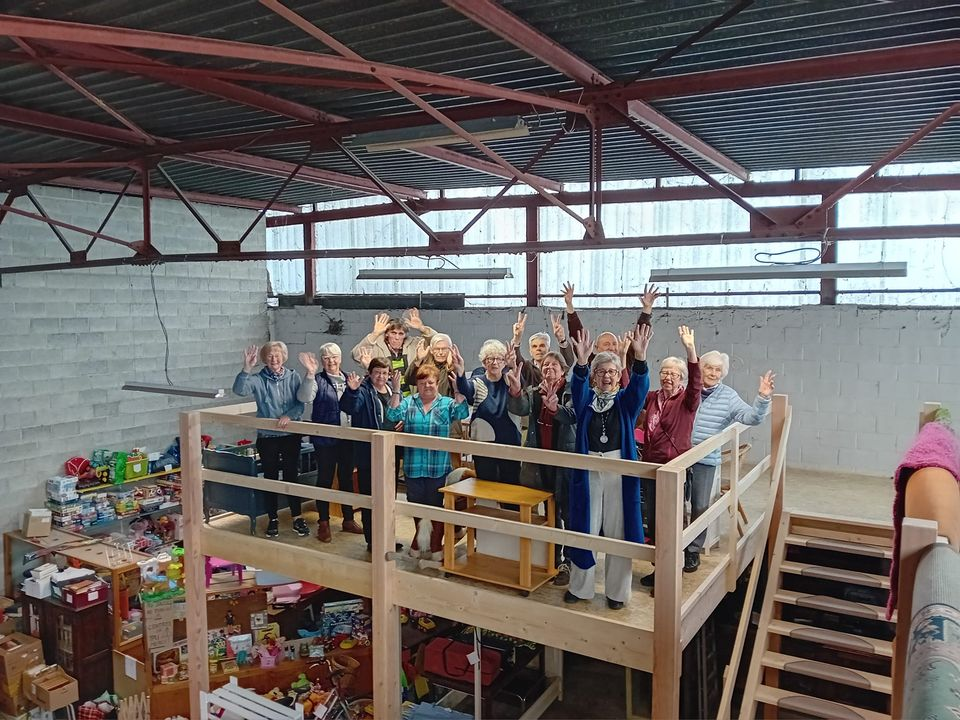
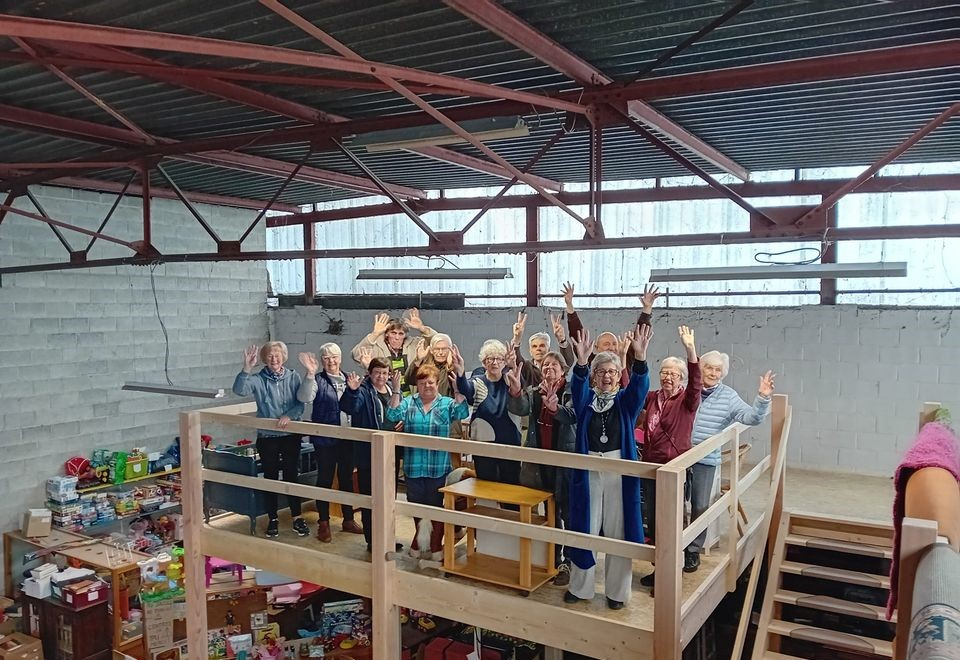
Changed the projects' cards

diff --git a/wp-content/themes/portfolio/public/css/style.css b/wp-content/themes/portfolio/public/css/style.css
@@ -605,29 +605,38 @@ abbr {
   transition: 1s;
 }
 
-.projects .projects__container article {
-  padding: 1.2rem 0;
-  cursor: pointer;
-  position: relative;
-  background-color: #2B2A2A;
-  border: 1px solid black;
-  border-radius: 8px;
-  transition: 1s;
-  margin-bottom: 4rem;
-  display: flex;
-  flex-direction: column-reverse;
-  justify-content: space-between;
-  align-items: center;
-}
-@media (min-width: 920px) {
-  .projects .projects__container article {
-    flex-direction: row;
-    padding: 1.2rem 2%;
+@media (min-width: 800px) {
+  .projects .projects__container {
+    display: grid;
+    grid-template-columns: 1fr 1fr;
+    gap: 3rem;
   }
 }
 @media (min-width: 920px) {
-  .projects .projects__container article:nth-child(even) {
-    flex-direction: row-reverse;
+  .projects .projects__container {
+    display: grid;
+    grid-template-columns: 1fr 1fr 1fr;
+    gap: 3rem;
+  }
+}
+.projects .projects__container article {
+  cursor: pointer;
+  position: relative;
+  border-radius: 8px;
+  transition: 1s;
+  margin: 0 auto 4rem;
+  width: 75%;
+}
+@media (min-width: 800px) {
+  .projects .projects__container article {
+    width: 90%;
+    margin-bottom: 0;
+  }
+}
+@media (min-width: 920px) {
+  .projects .projects__container article {
+    width: 100%;
+    margin-bottom: 0;
   }
 }
 .projects .projects__container article a {
@@ -641,12 +650,12 @@ abbr {
   z-index: 1;
 }
 .projects .projects__container article .img_container {
-  width: 88%;
+  width: 100%;
   margin-top: 2rem;
 }
 @media (min-width: 920px) {
   .projects .projects__container article .img_container {
-    width: 48%;
+    width: 100%;
     margin-top: 0;
   }
 }
@@ -655,43 +664,18 @@ abbr {
   height: 100%;
   border-radius: 10px;
 }
-.projects .projects__container article section {
-  width: 88%;
-}
-@media (min-width: 920px) {
-  .projects .projects__container article section {
-    width: 48%;
-  }
-}
-.projects .projects__container article section h4 {
-  color: #C0A062;
-  font-size: 1.5rem;
-  margin-bottom: 1rem;
-}
-.projects .projects__container article section p {
-  line-height: 1.5rem;
+.projects .projects__container article h4 {
+  background-color: #C0A062;
+  width: 65%;
+  text-align: center;
+  padding: 0.5rem 0;
+  position: absolute;
+  bottom: -0.5rem;
+  left: 10%;
+  rotate: -2deg;
   font-size: 1.2rem;
-  margin-bottom: 2rem;
-}
-.projects .projects__container article section ul {
-  display: flex;
-}
-.projects .projects__container article section ul li {
-  margin-left: 2%;
-  color: #C0A062;
-  border: 1px solid #C0A062;
-  border-radius: 8px;
-  padding: 0.5rem 3%;
-  font-size: 0.8rem;
-  font-family: Georgia, "Times New Roman", Times, serif;
-}
-@media (min-width: 920px) {
-  .projects .projects__container article section ul li {
-    padding: 0.5rem 2%;
-  }
-}
-.projects .projects__container article section ul li:first-child {
-  margin-left: 0;
+  line-height: 1.2rem;
+  border-radius: 5px;
 }
 .projects .projects__container article:hover {
   transform: scale(1.07);

diff --git a/wp-content/themes/portfolio/public/sass/projects.scss b/wp-content/themes/portfolio/public/sass/projects.scss
@@ -2,29 +2,32 @@
 
 .projects {
   .projects__container {
+    @media (min-width: $breakpoint-m) {
+      display: grid;
+      grid-template-columns: 1fr 1fr;
+      gap: 3rem;
+    }
+    @media (min-width: $breakpoint-l) {
+      display: grid;
+      grid-template-columns: 1fr 1fr 1fr;
+      gap: 3rem;
+    }
+
     article {
-      padding: 1.2rem 0;
       cursor: pointer;
       position: relative;
-      background-color: #2B2A2A;
-      border: 1px solid black;
       border-radius: 8px;
       transition: 1s;
-      margin-bottom: 4rem;
-      display: flex;
-      flex-direction: column-reverse;
-      justify-content: space-between;
-      align-items: center;
+      margin: 0 auto 4rem;
+      width: 75%;
 
-      @media (min-width: $breakpoint-l) {
-        flex-direction: row;
-        padding: 1.2rem 2%;
+      @media (min-width: $breakpoint-m) {
+        width: 90%;
+        margin-bottom: 0;
       }
-
-      &:nth-child(even) {
-        @media (min-width: $breakpoint-l) {
-          flex-direction: row-reverse;
-        }
+      @media (min-width: $breakpoint-l) {
+        width: 100%;
+        margin-bottom: 0;
       }
 
       a {
@@ -39,10 +42,10 @@
       }
 
       .img_container {
-        width: 88%;
+        width: 100%;
         margin-top: 2rem;
         @media (min-width: $breakpoint-l) {
-          width: 48%;
+          width: 100%;
           margin-top: 0;
         }
 
@@ -53,44 +56,18 @@
         }
       }
 
-      section {
-        width: 88%;
-        @media (min-width: $breakpoint-l) {
-          width: 48%;
-        }
-
-        h4 {
-          color: #C0A062;
-          font-size: 1.5rem;
-          margin-bottom: 1rem;
-        }
-
-        p {
-          line-height: 1.5rem;
-          font-size: 1.2rem;
-          margin-bottom: 2rem;
-        }
-
-        ul {
-          display: flex;
-
-          li {
-            margin-left: 2%;
-            color: #C0A062;
-            border: 1px solid #C0A062;
-            border-radius: 8px;
-            padding: 0.5rem 3%;
-            font-size: 0.8rem;
-            font-family: Georgia, "Times New Roman", Times, serif;
-            @media (min-width: $breakpoint-l) {
-              padding: 0.5rem 2%;
-            }
-
-            &:first-child {
-              margin-left: 0;
-            }
-          }
-        }
+      h4 {
+        background-color: #C0A062;
+        width: 65%;
+        text-align: center;
+        padding: 0.5rem 0;
+        position: absolute;
+        bottom: -0.5rem;
+        left: 10%;
+        rotate: -2deg;
+        font-size: 1.2rem;
+        line-height: 1.2rem;
+        border-radius: 5px;
       }
 
       &:hover {

diff --git a/wp-content/themes/portfolio/template-projects.php b/wp-content/themes/portfolio/template-projects.php
@@ -23,29 +23,30 @@ get_header();
 
             if ($projects->have_posts()): while ($projects->have_posts()): $projects->the_post(); ?>
                 <article class="animate">
-                    <a href="<?= get_the_permalink(); ?>" title="Consulter le projet">
+                    <a href="<?= get_the_permalink(); ?>" title='Consulter le projet "<?= get_the_title(); ?>"'>
                         <span class="sr-only">Découvrir le projet "<?= get_the_title(); ?>"</span>
                     </a>
                     <div class="img_container">
                         <?= wp_get_attachment_image(get_field('cover_img'), 'medium'); ?>
                     </div>
-                    <section>
+                    <h4><?= get_the_title(); ?></h4>
+                    <!--<section>
                         <h4>
-                            <?= get_field('title') ?>
+                            <?php /*= get_field('title') */?>
                         </h4>
                         <p>
-                            <?= get_field('introduction_description') ?>
+                            <?php /*= get_field('introduction_description') */?>
                         </p>
-                        <?php if (have_rows('languages')): ?>
+                        <?php /*if (have_rows('languages')): */?>
                             <ul>
-                                <?php while (have_rows('languages')): the_row(); ?>
+                                <?php /*while (have_rows('languages')): the_row(); */?>
                                     <li>
-                                        <?= get_sub_field('language') ?>
+                                        <?php /*= get_sub_field('language') */?>
                                     </li>
-                                <?php endwhile; ?>
+                                <?php /*endwhile; */?>
                             </ul>
-                        <?php endif; ?>
-                    </section>
+                        <?php /*endif; */?>
+                    </section>-->
                 </article>
             <?php endwhile; else: ?>
                 <p>Je n'ai pas de projets à montrer pour le moment...</p>
